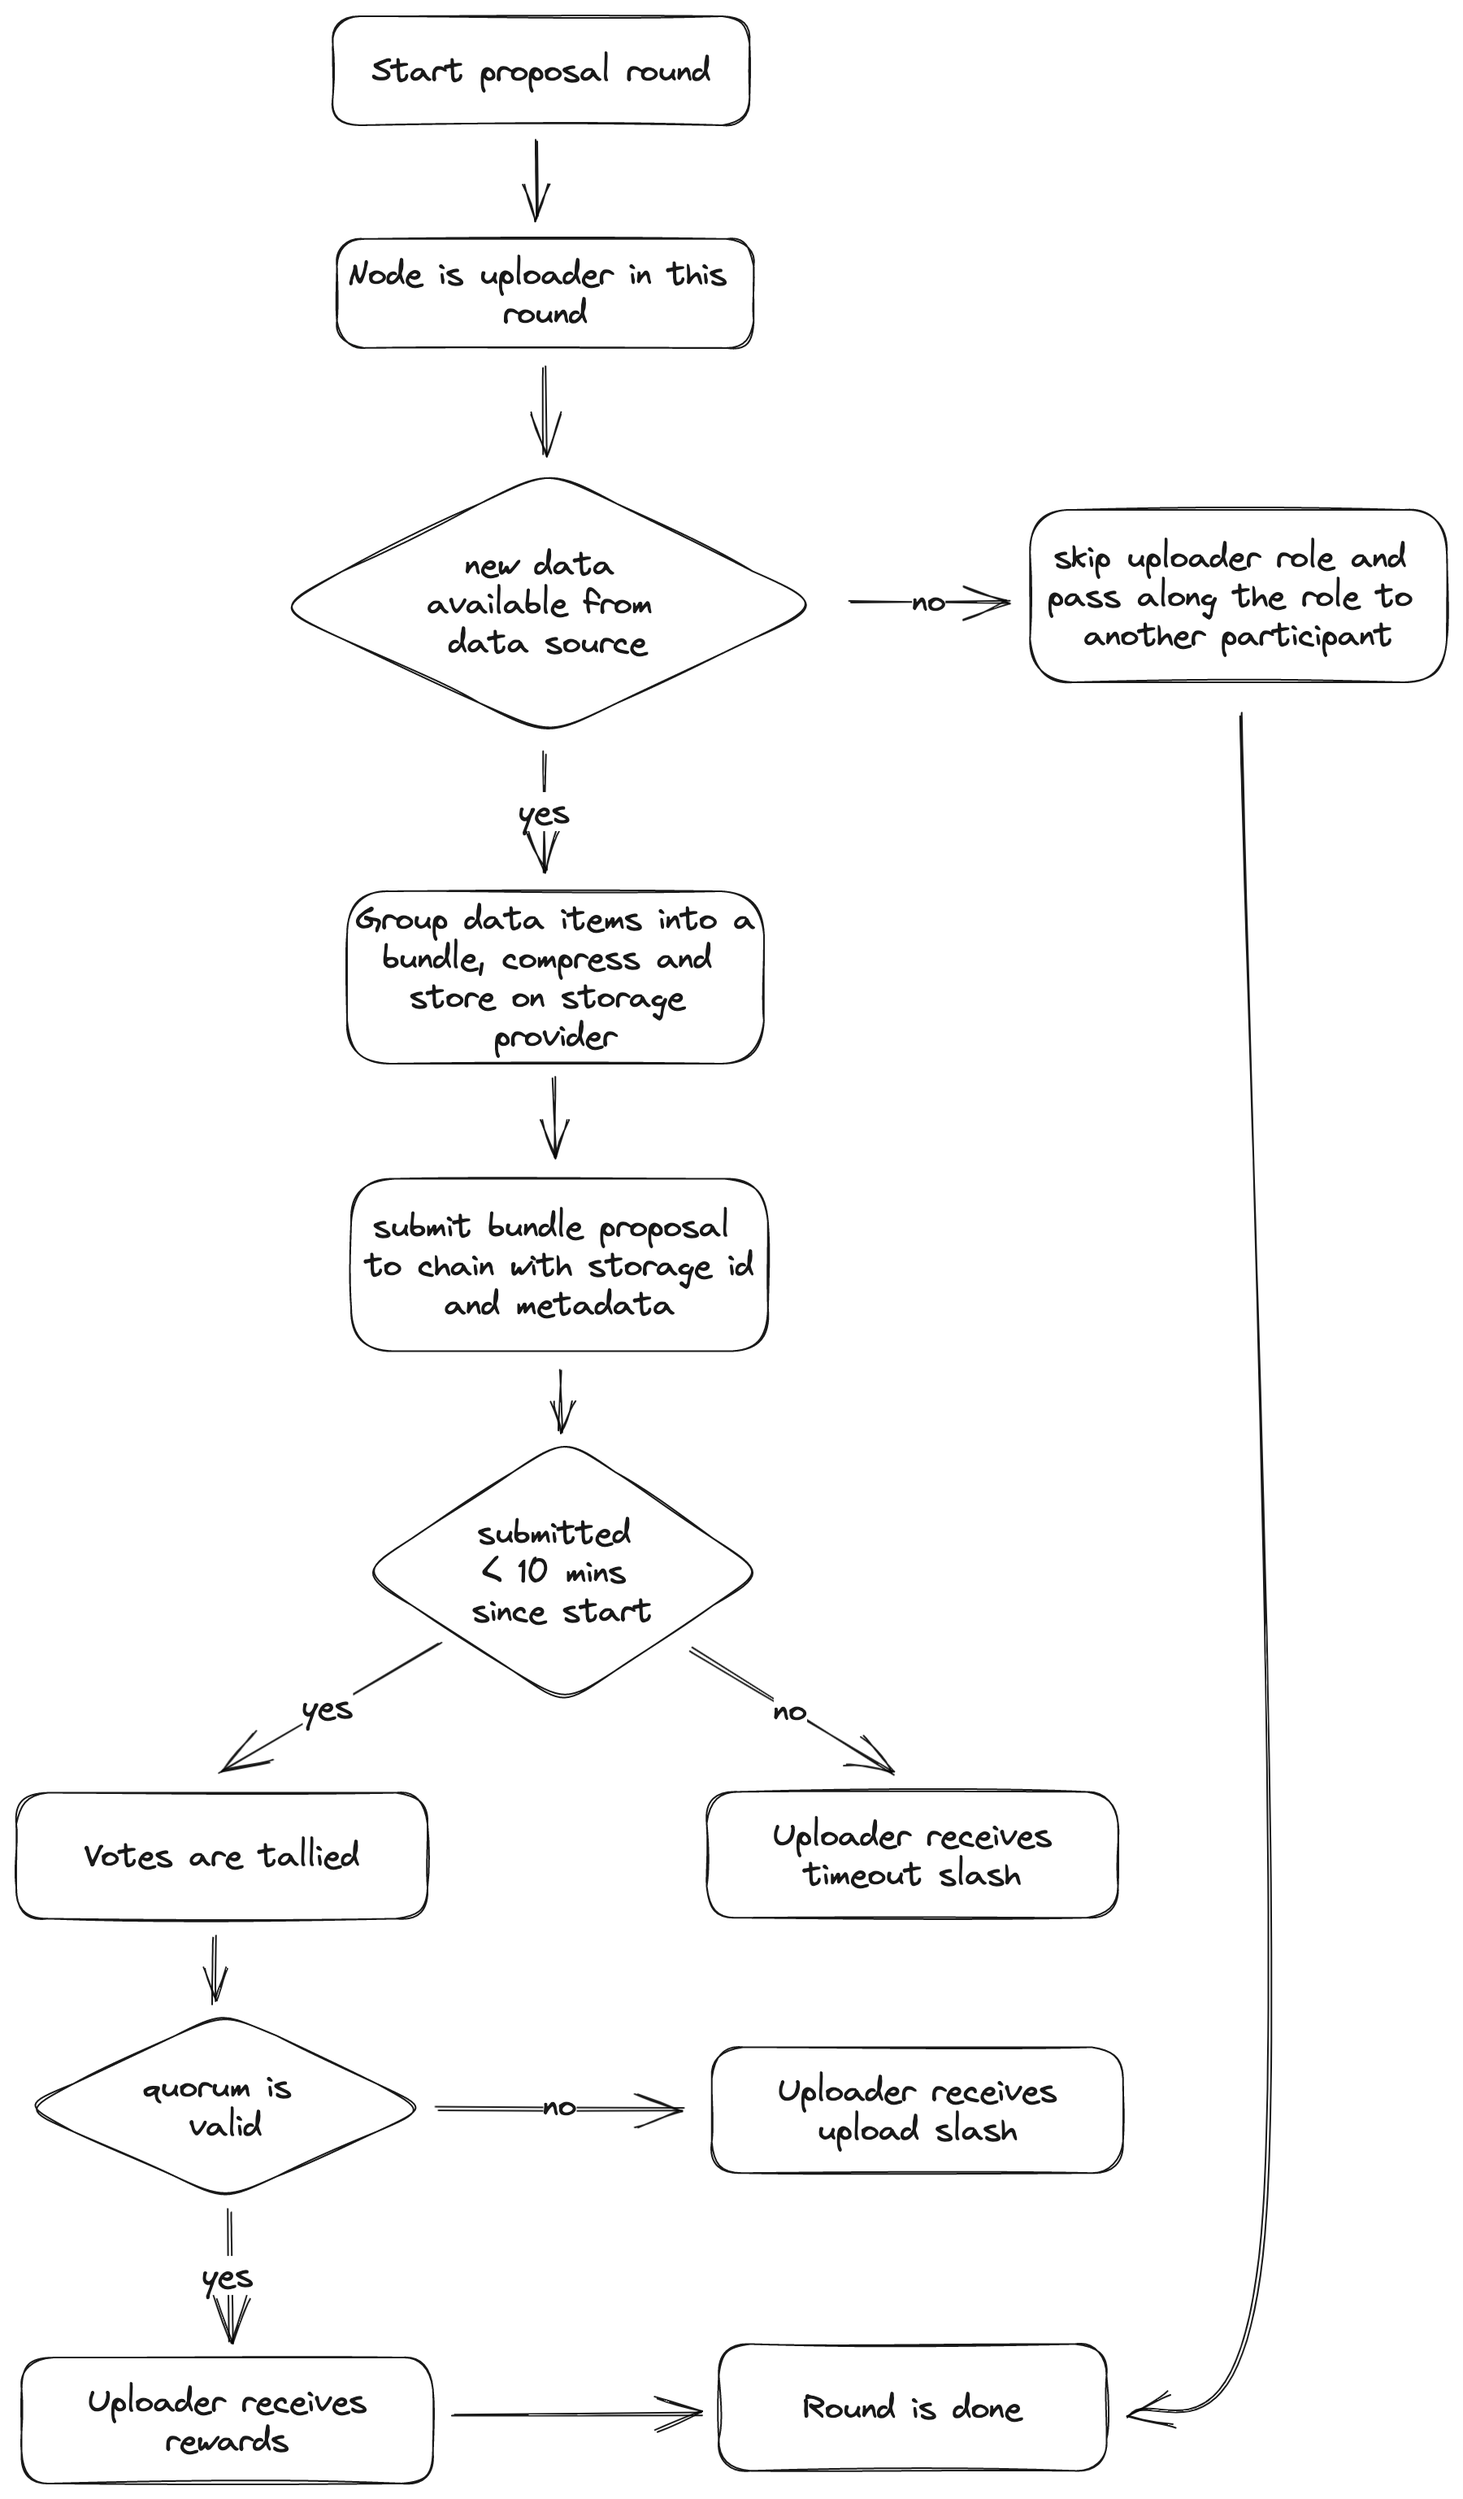
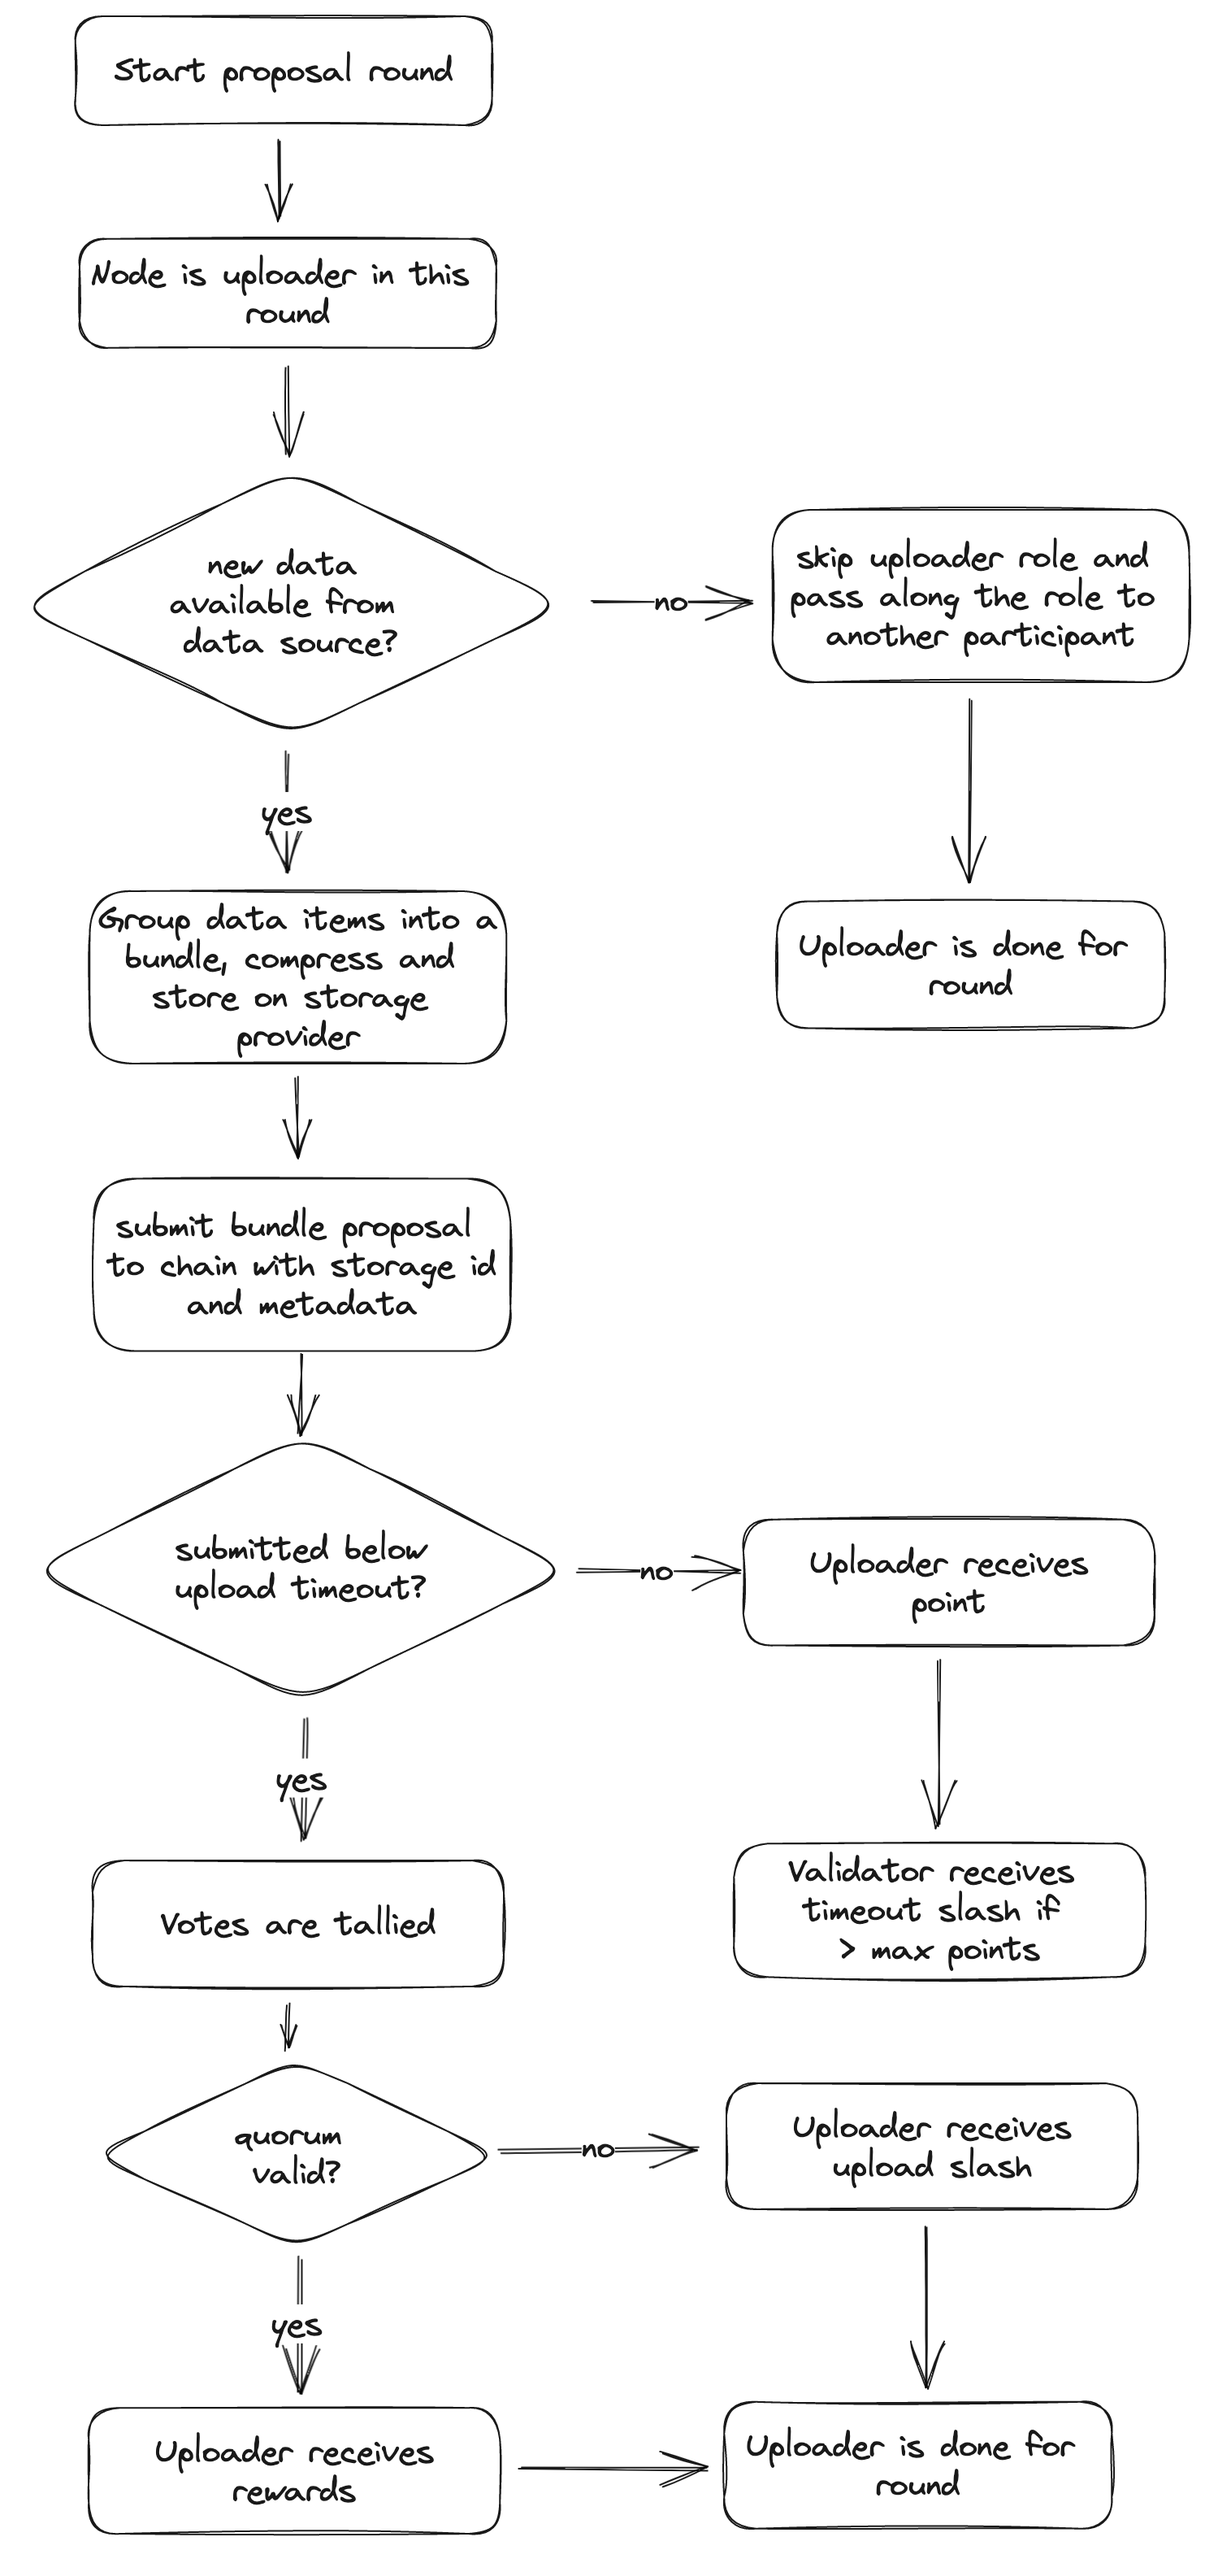
finished validator page

diff --git a/docs/protocol_devs/general_concepts/validator.md b/docs/protocol_devs/general_concepts/validator.md
@@ -4,3 +4,27 @@ sidebar_position: 4
 
 # Validator
 
+## Introduction
+
+Those protocol nodes who did not become *uploader* in the current round are automatically assigned the role of *validator*. This does not make them less important, the have the critical task of finding out if the proposed bundle of the uploader is valid or invalid.
+
+## Responsibilities
+
+The main task is like mentioned above to find out if the proposed bundle from the uploader is valid or invalid. For that they retrieve the data from the storage provider with the `storage_id` once the proposal was registered and compare it with their local data they retrieved themselves from the data source. With that mechanism every validator is comparing their collected data with the data the uploader stored on the storage provider. Beside the raw data valiation which is mostly a simple hash comparison the validators also validate certain metadata which is attached in the bundle proposal like data size (which is used in the reward calculation) or the actual data hash provided by the uploader. Once the validator is done with validating and came to a conclusion he votes with the transaction type `MsgVoteBundleProposal`. The validator has three options when casting a vote:
+
+- **VALID**: when the proposed bundle is found valid in the validator's perspective. When the quorum of the bundle is found to be invalid the validator receives a *vote slash*
+- **INVALID**: when the proposed bundle is found invalid in the validator's perspective. When the quorum of the bundle is found to be valid the validator receives a *vote slash*
+- **ABSTAIN**: when the validator was unable to make a decision whether the bundle is valid or not. This could be for example due to the data source being offline for the validator. With abstain the validator does not face the risk of getting slashed, but won't be considered for the next uploader selection either, thus voting abstain all the time won't earn the validator any rewards in the long run
+
+:::tip
+**NOTE**: More information on how the votes are tallied and the quorum reached can be found [here](/protocol_devs/advanced_concepts/vote_tallying.md)
+:::
+
+## Flow diagram
+
+A more detailed step by step description can be found below:
+
+<p align="center">
+  <img width="70%" src="/img/validator_steps.png" />
+</p>
+

diff --git a/docs/protocol_devs/advanced_concepts/vote_tallying.md b/docs/protocol_devs/advanced_concepts/vote_tallying.md
@@ -27,8 +27,10 @@ where
 - $d_i$ = `is the total delegation of i-th node`
 - $n$ = `is the number of validators in pool`
 
-This implies that the total voting power inside a pool should always add up to 100%. In order to tally votes for the final status the voting power of the nodes are summed up based on their vote. Then the final result can be calculated based on the requirements below:
+## Reaching Quorum
 
-- **valid**: > 50% voted with valid
-- **invalid**: >= 50% voted with invalid
-- **dropped**: if neither of the above requirements are met
+This implies that the total voting power inside a pool should always add up to 100%. In order to tally votes for the final status (quorum) the voting power of the nodes are summed up based on their vote. Then quorum (which can have three outcomes) then can be determined based on the requirements below:
+
+- **VALID**: > 50% voted with valid
+- **INVALID**: >= 50% voted with invalid
+- **DROPPED**: if neither of the above requirements are met

diff --git a/docs/protocol_devs/general_concepts/uploader.md b/docs/protocol_devs/general_concepts/uploader.md
@@ -25,6 +25,8 @@ the new round immediately gets started. With the new round started, the other pa
 - Skip round with `MsgSkipUploaderRole`. This should be called if the uploader is unable to get new data from the data source due to it being offline or for other reasons. With this transaction
 a new uploader is automatically selected who then can try if he can find any new data. If an uploader skips a bundle proposal he will **not** earn any rewards
 
+## Flow diagram
+
 A more detailed step by step description can be found below:
 
 <p align="center">
